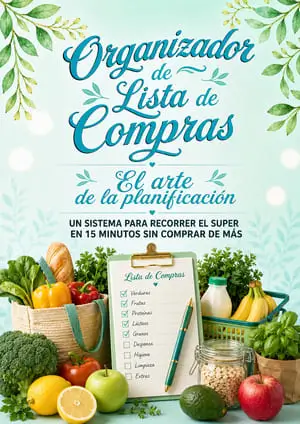
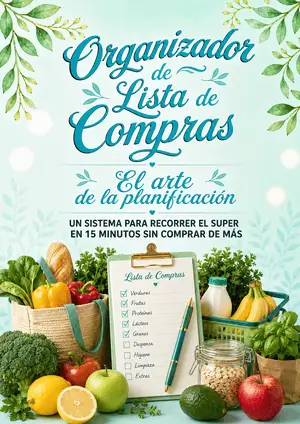
Add files via upload

diff --git a/index.html b/index.html
@@ -1747,49 +1747,50 @@
     </section>
 
     <!-- ENTREGABLES -->
-    <section class="ef-section" id="entregables">
-      <div class="ef-container">
-        <div class="ef-deliverables-simple">
+      <article class="ef-seasonal-block">
           <div class="ef-section-heading">
             <h2>¡Esto es todo lo que hoy te vas a llevar a un precio increíble!</h2>
           </div>
 
-          <img src="./assets/img/hero-objeciones-web.webp" alt="Frascos de ensaladas listas para la semana"
-            class="ef-section-img" loading="lazy" />
+            <h3>🎁 entregables</h3>
+            
 
-          <span class="ef-kicker">📚 ENTREGABLES</span>
+            <ul class="ef-seasonal-list">
+              <li>
+                <strong>1 - LAS RECETAS: Ensaladas en Frasco</strong>
+                <em>100 recetas de ensaladas para comer todo el año.</em>
+               
+                <img src="./assets/img/001.webp" alt="Frascos de ensaladas listas para la semana"
+                  loading="lazy" />
+              </li>
+              <li>
+                <strong>2 - EL MÉTODO: Protocolo de Capas y Conservación</strong>
+               <em>Cocinás una vez. Comés sano toda la semana.</em>
+                <img src="./assets/img/002.webp" alt="Frascos de ensaladas listas para la semana"
+                  loading="lazy" />
+              </li>
+              <li>
+                <strong>3 - LA MAGIA: Alquimia de Aderezos Saludables</strong>
+               <em>25 fórmulas maestras para crear cualquier sabor del mundo en 2 minutos.</em>
+                <img src="./assets/img/003.jpg" alt="Frascos de ensaladas listas para la semana"
+                  loading="lazy" />
+                  </li>
+                  <li>
+                <strong>4 - INFOGRAFÍA: el arte de apilar</strong>
+               <em>Un imagen que grafica la ciencia del método.</em>
+    
+              </li>
+              <li>
+                <strong>5 - ORGANIZADOR DE LISTA DE COMPRAS: El arte de la planificación</strong>
+               <em>Un sistema para recorrer el super en 15 minutos sin comprar de más.</em>
+                <img src="./assets/img/005.webp" alt="Frascos de ensaladas listas para la semana"
+                  loading="lazy" />
+              </li>
+              </li>
+            </ul>
+          </article>
 
-          <ol class="ef-deliverables-list">
-            <li>
-             <strong> LAS RECETAS: Ensaladas en Frasco</strong> 
-
-              <img src="./assets/img/001.webp" alt="100 recetas de ensaladas en frasco" loading="lazy" />
-              
-              <p>100 recetas de ensaladas para comer todo el año.</p></li>
-            </li>
-            <li>
-             <strong> EL MÉTODO: Protocolo de Capas y Conservación</strong> 
-              <img src="./assets/img/002.webp" alt="Recetas energéticas y completas" loading="lazy" />
-              
-              <p>Cocinás una vez. Comés sano toda la semana.</p>
-            </li>
-            <li>
-              <strong>LA MAGIA: Alquimia de Aderezos Saludables</strong> 
-              <img src="./assets/img/003.jpg" alt="Aderezos" loading="lazy" />
-              <p>25 fórmulas maestras para crear cualquier sabor del mundo en 2 minutos.</p>
-            </li>
-            <li>
-             <strong>INFOGRAFÍA: el arte de apilar</strong>
-              <p>Un imagen que grafica la ciencia del método.</p>
-            </li>
-             <li>
-             <strong>ORGANIZADOR DE LISTA DE COMPRAS: El arte de la planificación</strong>
-              <p> Un sistema para recorrer el super en 15 minutos sin comprar de más.</p>
-            </li>
-          </ol>
-        </div>
-      </div>
-    </section>
+   
 
     <!-- BONO ESTRELLA -->
     <section class="ef-section ef-section--soft">